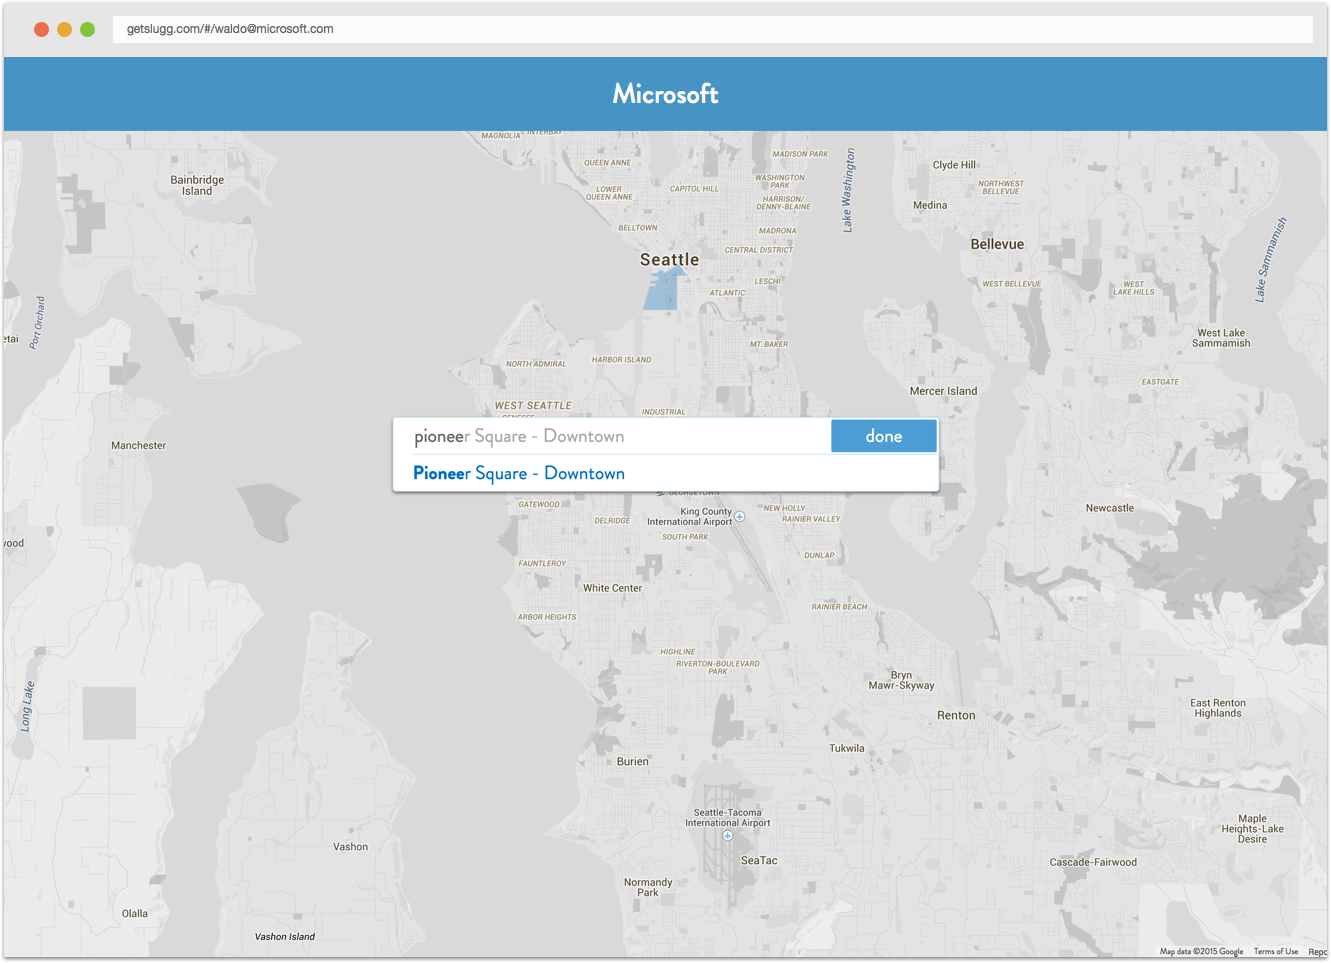
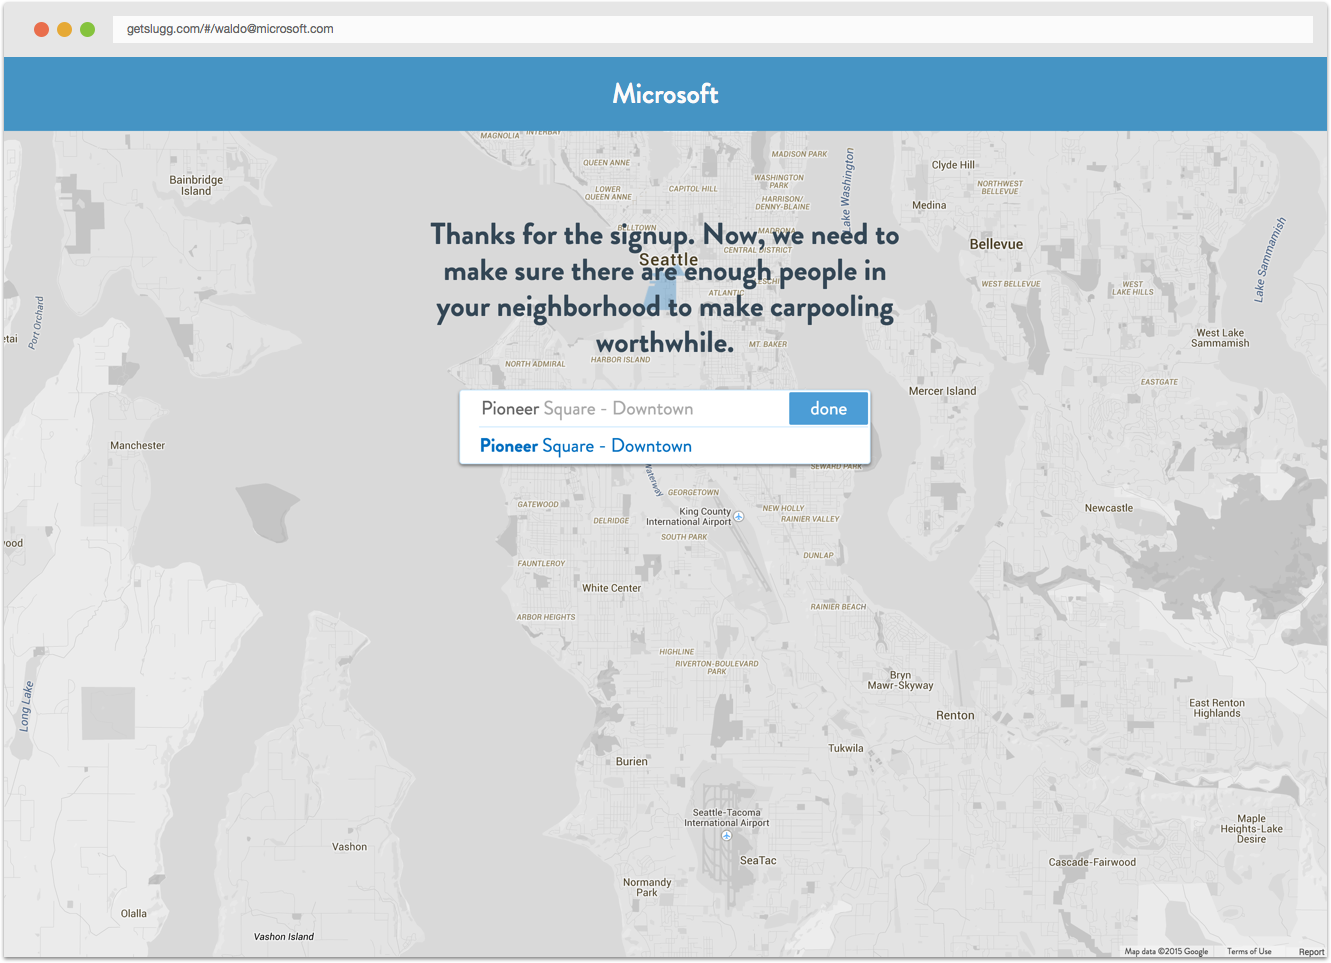
fixed stuff

diff --git a/public/templates/neighborhood.tpl.html b/public/templates/neighborhood.tpl.html
@@ -3,16 +3,19 @@
   <polygon options="neighborhood.activePolygon"></polygon>
   <polygon options="neighborhood.hoverPolygon"></polygon>
 </map>
-<slide-input class="middle"
-             button="done"
-             placeholder="Type in your neighborhood"
-             ng-model="neighborhood.name"
-             click="neighborhood.signupNeighborhood(value, item)"
-             change="neighborhood.change(model)"
-             focus="neighborhood.focusNeighborhood"
-             typeahead-data="neighborhood.typeaheadData"
-             typeahead-format="neighborhood.typeaheadFormat(item, query)"
-             suggested-format="neighborhood.suggestedFormat(item, query)"
-             typeahead-hover-item="neighborhood.typeaheadHoverItem(item)"
-             typeahead-active-item="neighborhood.typeaheadActiveItem(item)"
-             empty="If we get enough support from your area we'll expand there, so definitely sign up"></slide-input>
+<div class="mapCover"></div>
+<section class="col middle">
+  <h3 class="center-text">Thanks for the signup. Now, we need to make sure there are enough people in your neighborhood to make carpooling worthwhile.</h3>
+  <slide-input button="done"
+               placeholder="Type in your neighborhood"
+               ng-model="neighborhood.name"
+               click="neighborhood.signupNeighborhood(value, item)"
+               change="neighborhood.change(model)"
+               focus="neighborhood.focusNeighborhood"
+               typeahead-data="neighborhood.typeaheadData"
+               typeahead-format="neighborhood.typeaheadFormat(item, query)"
+               suggested-format="neighborhood.suggestedFormat(item, query)"
+               typeahead-hover-item="neighborhood.typeaheadHoverItem(item)"
+               typeahead-active-item="neighborhood.typeaheadActiveItem(item)"
+               empty="If we get enough support from your area we'll expand there, so definitely sign up"></slide-input>
+</section>

diff --git a/app/assets/stylesheets/main2.sass b/app/assets/stylesheets/main2.sass
@@ -253,16 +253,29 @@ map
   left: 0
   right: 0
 
+.mapCover
+  display: block
+  position: absolute
+  bottom: 0
+  top: 5.4em
+  left: 0
+  right: 0
+  background: rgba(0,0,0,0.5)
+
+
 .middle
   position: absolute
   left: 0
   right: 0
-  top: 40%
-  box-shadow: 0 2px 4px rgba(0,0,0,0.5)
-  border-radius: 4px
-  width: 30rem
-  max-width: 100%
   margin: 0 auto
+
+  h3
+    color: #fff
+    text-shadow: 1px 1px rgba(0,0,0,0.1)
+
+  slide-input
+    border-radius: 4px
+    width: 30rem
 
 .mail
   margin-top: 2em
@@ -297,7 +310,8 @@ map
   text-align: center
   font-size: 0.4em
 
-
+.slideInput-input, .slideInput-button
+  padding: 0.5em 1em
 
 @import 'buttons'
 @import 'modal'

diff --git a/app/views/index2.scala.html b/app/views/index2.scala.html
@@ -1,13 +1,13 @@
 @()
 
 @css = {
-  <link rel="stylesheet" media="screen" href="@routes.Assets.at("stylesheets/main2.css")">
-
   <link rel="stylesheet" media="screen" href="@routes.Assets.at("stylesheets/mail.css")">
   <link rel="stylesheet" media="screen" href="@routes.Assets.at("stylesheets/goalBar.css")">
   <link rel="stylesheet" media="screen" href="@routes.Assets.at("stylesheets/slideInput.css")">
 
   <link rel="stylesheet" media="screen" href="@routes.Assets.at("stylesheets/sprites/companies-sprite-pack.css")">
+
+  <link rel="stylesheet" media="screen" href="@routes.Assets.at("stylesheets/main2.css")">
 }
 
 @scripts = {
